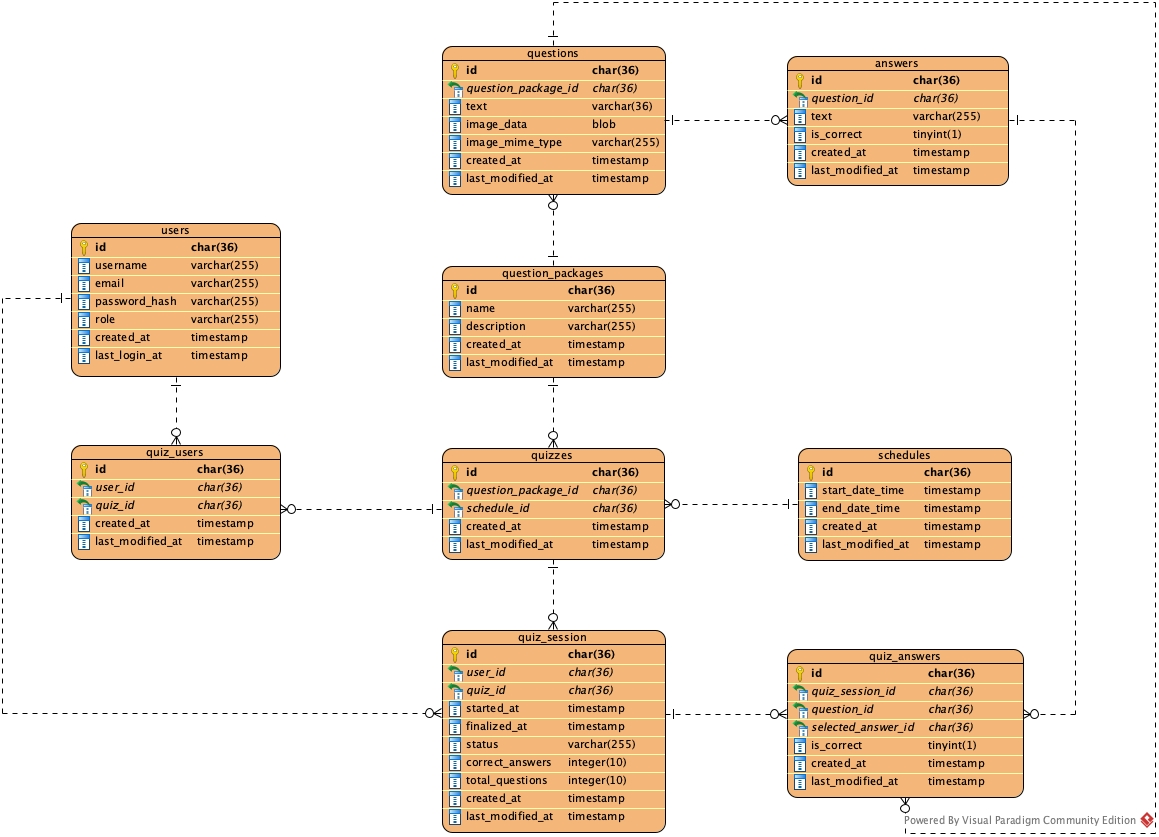
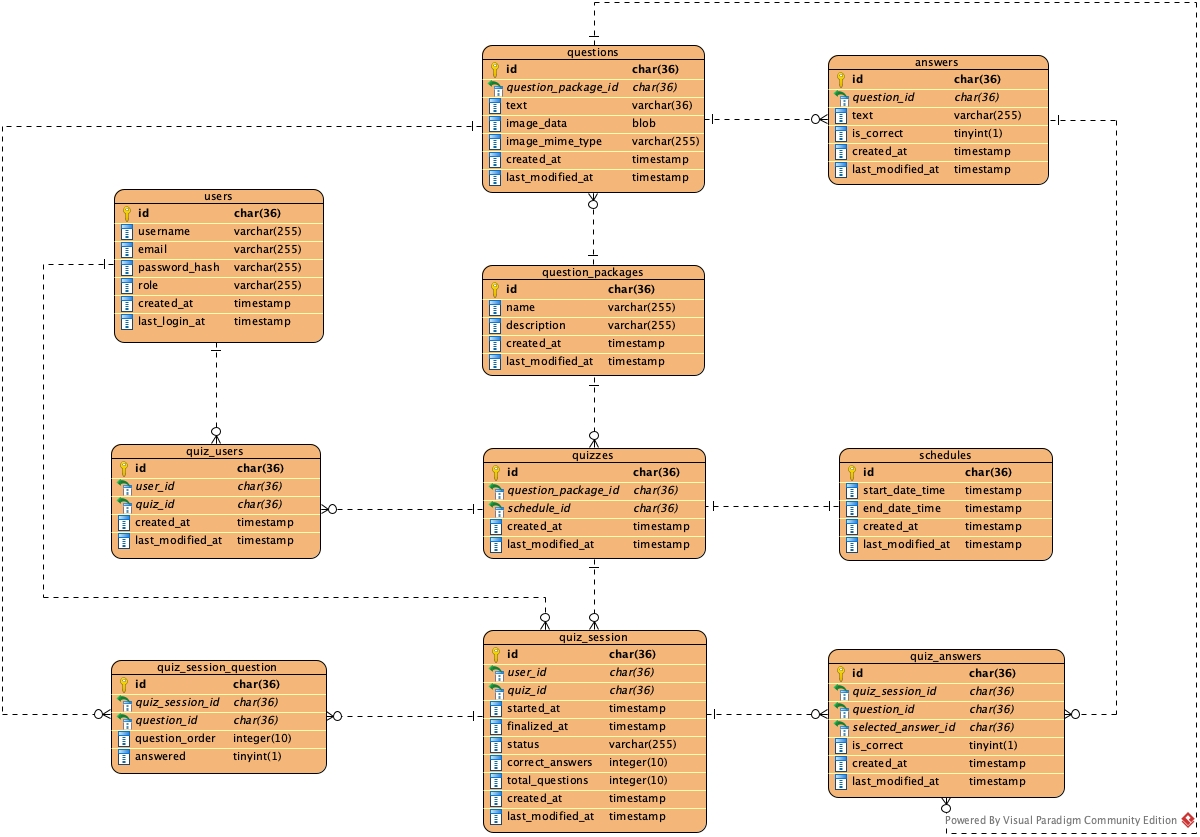
feat: Quiz session question migration

diff --git a/src/PuzzleLab.Infrastructure/Persistence/Migrations/20250421191115_MigrateQuizSessionQuestions.cs b/src/PuzzleLab.Infrastructure/Persistence/Migrations/20250421191115_MigrateQuizSessionQuestions.cs
@@ -1,0 +1,59 @@
+using System;
+using Microsoft.EntityFrameworkCore.Migrations;
+
+#nullable disable
+
+namespace PuzzleLab.Infrastructure.Persistence.Migrations
+{
+    /// <inheritdoc />
+    public partial class MigrateQuizSessionQuestions : Migration
+    {
+        /// <inheritdoc />
+        protected override void Up(MigrationBuilder migrationBuilder)
+        {
+            migrationBuilder.CreateTable(
+                name: "quiz_session_questions",
+                columns: table => new
+                {
+                    id = table.Column<Guid>(type: "uuid", nullable: false),
+                    quiz_session_id = table.Column<Guid>(type: "uuid", nullable: false),
+                    question_id = table.Column<Guid>(type: "uuid", nullable: false),
+                    question_order = table.Column<int>(type: "integer", nullable: false),
+                    answered = table.Column<bool>(type: "boolean", nullable: false)
+                },
+                constraints: table =>
+                {
+                    table.PrimaryKey("pk_quiz_session_questions", x => x.id);
+                    table.ForeignKey(
+                        name: "fk_quiz_session_questions_questions_question_id",
+                        column: x => x.question_id,
+                        principalTable: "questions",
+                        principalColumn: "id",
+                        onDelete: ReferentialAction.Cascade);
+                    table.ForeignKey(
+                        name: "fk_quiz_session_questions_quiz_sessions_quiz_session_id",
+                        column: x => x.quiz_session_id,
+                        principalTable: "quiz_sessions",
+                        principalColumn: "id",
+                        onDelete: ReferentialAction.Cascade);
+                });
+
+            migrationBuilder.CreateIndex(
+                name: "ix_quiz_session_questions_question_id",
+                table: "quiz_session_questions",
+                column: "question_id");
+
+            migrationBuilder.CreateIndex(
+                name: "ix_quiz_session_questions_quiz_session_id",
+                table: "quiz_session_questions",
+                column: "quiz_session_id");
+        }
+
+        /// <inheritdoc />
+        protected override void Down(MigrationBuilder migrationBuilder)
+        {
+            migrationBuilder.DropTable(
+                name: "quiz_session_questions");
+        }
+    }
+}

diff --git a/src/PuzzleLab.Domain/Entities/QuizSessionQuestion.cs b/src/PuzzleLab.Domain/Entities/QuizSessionQuestion.cs
@@ -1,0 +1,40 @@
+using System;
+using System.ComponentModel.DataAnnotations;
+using System.ComponentModel.DataAnnotations.Schema;
+
+namespace PuzzleLab.Domain.Entities;
+
+public class QuizSessionQuestion
+{
+    [Key] public Guid Id { get; private set; }
+
+    [Required] public Guid QuizSessionId { get; private set; }
+
+    [Required] public Guid QuestionId { get; private set; }
+
+    [Required] public int QuestionOrder { get; private set; }
+
+    public bool Answered { get; private set; }
+
+    [ForeignKey("QuizSessionId")] public virtual QuizSession QuizSession { get; private set; }
+
+    [ForeignKey("QuestionId")] public virtual Question Question { get; private set; }
+
+    private QuizSessionQuestion()
+    {
+    }
+
+    public QuizSessionQuestion(Guid quizSessionId, Guid questionId, int questionOrder)
+    {
+        Id = Guid.NewGuid();
+        QuizSessionId = quizSessionId;
+        QuestionId = questionId;
+        QuestionOrder = questionOrder;
+        Answered = false;
+    }
+
+    public void MarkAnswered()
+    {
+        Answered = true;
+    }
+}

diff --git a/src/PuzzleLab.Infrastructure/Persistence/Migrations/20250421191115_MigrateQuizSessionQuestions.Designer.cs b/src/PuzzleLab.Infrastructure/Persistence/Migrations/20250421191115_MigrateQuizSessionQuestions.Designer.cs
@@ -2,6 +2,7 @@
 using System;
 using Microsoft.EntityFrameworkCore;
 using Microsoft.EntityFrameworkCore.Infrastructure;
+using Microsoft.EntityFrameworkCore.Migrations;
 using Microsoft.EntityFrameworkCore.Storage.ValueConversion;
 using Npgsql.EntityFrameworkCore.PostgreSQL.Metadata;
 using PuzzleLab.Infrastructure.Persistence;
@@ -11,9 +12,11 @@ using PuzzleLab.Infrastructure.Persistence;
 namespace PuzzleLab.Infrastructure.Persistence.Migrations
 {
     [DbContext(typeof(DatabaseContext))]
-    partial class DatabaseContextModelSnapshot : ModelSnapshot
+    [Migration("20250421191115_MigrateQuizSessionQuestions")]
+    partial class MigrateQuizSessionQuestions
     {
-        protected override void BuildModel(ModelBuilder modelBuilder)
+        /// <inheritdoc />
+        protected override void BuildTargetModel(ModelBuilder modelBuilder)
         {
 #pragma warning disable 612, 618
             modelBuilder

diff --git a/src/PuzzleLab.Domain/Entities/QuizSession.cs b/src/PuzzleLab.Domain/Entities/QuizSession.cs
@@ -18,7 +18,9 @@ public class QuizSession
 
     [ForeignKey("UserId")] public virtual User User { get; private set; }
     [ForeignKey("QuizId")] public virtual Quiz Quiz { get; private set; }
+
     public virtual ICollection<QuizAnswer> QuizAnswers { get; private set; }
+    public virtual ICollection<QuizSessionQuestion> QuizSessionQuestions { get; private set; }
 
     private QuizSession()
     {
@@ -36,6 +38,7 @@ public class QuizSession
         CreatedAt = DateTime.UtcNow;
         LastModifiedAt = CreatedAt;
         QuizAnswers = new List<QuizAnswer>();
+        QuizSessionQuestions = new List<QuizSessionQuestion>();
     }
 
     public void Finalize()

diff --git a/src/PuzzleLab.Domain/Entities/Question.cs b/src/PuzzleLab.Domain/Entities/Question.cs
@@ -23,6 +23,7 @@ public class Question
 
     public virtual ICollection<Answer> Answers { get; private set; }
     public virtual ICollection<QuizAnswer> QuizAnswers { get; private set; }
+    public virtual ICollection<QuizSessionQuestion> QuizSessionQuestions { get; private set; }
 
     private Question()
     {
@@ -37,6 +38,7 @@ public class Question
         LastModifiedAt = CreatedAt;
         Answers = new List<Answer>();
         QuizAnswers = new List<QuizAnswer>();
+        QuizSessionQuestions = new List<QuizSessionQuestion>();
     }
 
     public void UpdateText(string newText)

diff --git a/src/PuzzleLab.Infrastructure/Persistence/DatabaseContext.cs b/src/PuzzleLab.Infrastructure/Persistence/DatabaseContext.cs
@@ -17,6 +17,7 @@ public class DatabaseContext(DbContextOptions<DatabaseContext> options) : DbCont
     public DbSet<QuizUser> QuizUsers { get; set; }
     public DbSet<QuizSession> QuizSessions { get; set; }
     public DbSet<QuizAnswer> QuizAnswers { get; set; }
+    public DbSet<QuizSessionQuestion> QuizSessionQuestions { get; set; }
 
     protected override void OnModelCreating(ModelBuilder modelBuilder)
     {
